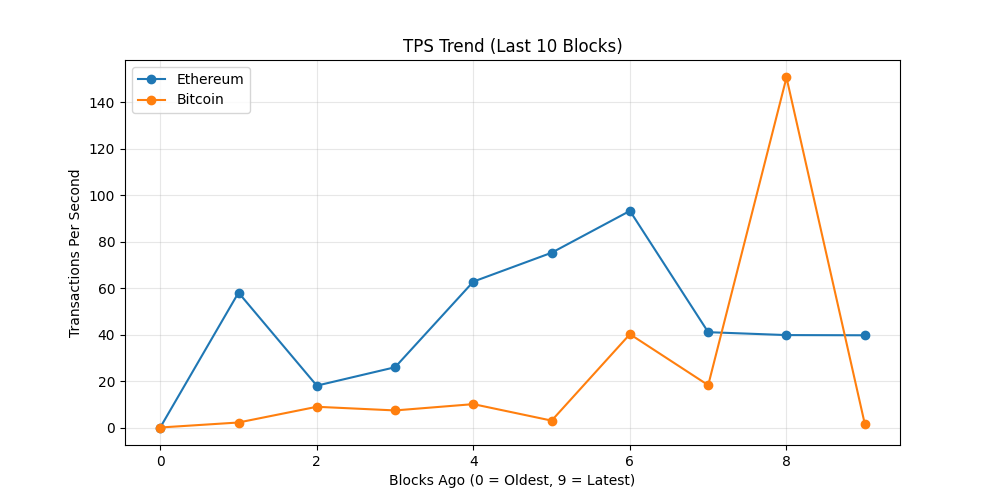
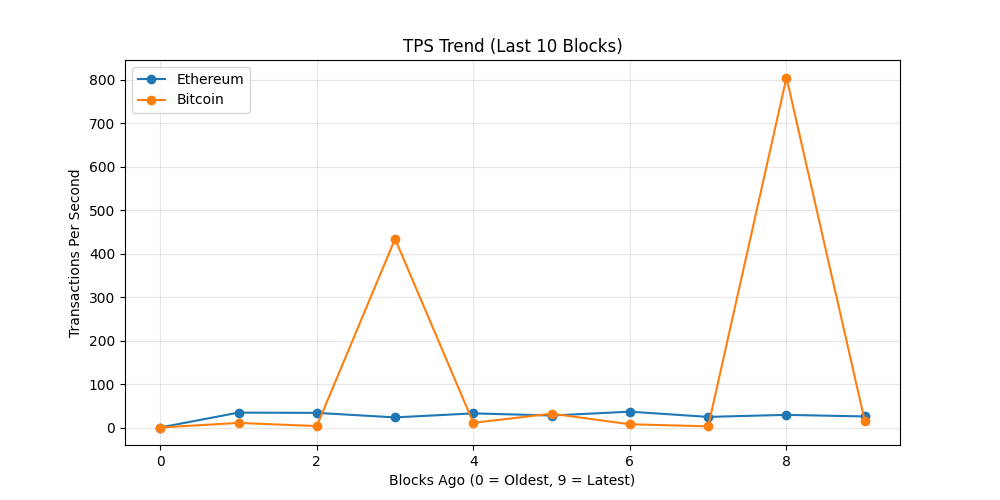
chore: update on-chain dashboard

diff --git a/README.md b/README.md
@@ -19,7 +19,7 @@ The README itself acts as the dashboard and is regenerated automatically on a 6 
 demonstrating a production-style, infrastructure-focused observability workflow rather
 than a traditional UI-driven approach.
 
-_Last updated: 2026-03-31 03:29 UTC_
+_Last updated: 2026-03-31 07:44 UTC_
 
 ## API Usage (GetBlock.io)
 - Calls used: **24**
@@ -27,8 +27,8 @@ _Last updated: 2026-03-31 03:29 UTC_
 ## Network Metrics
 | Chain | Block Height | TX Count | TPS (10 blk avg) | Block Util | Avg Fee |
 |------|-------------|----------|------------------|------------|---------|
-| Ethereum | 24774900 | 476 | 39.67 | 53.81% | 0.1 Gwei |
-| Bitcoin | 943007 | 2823 | 1.57 | 99.79% | N/A |
+| Ethereum | 24776171 | 305 | 25.42 | 50.7% | 0.1 Gwei |
+| Bitcoin | 943030 | 5042 | 15.33 | 99.8% | N/A |
 
 ## Visuals
 ### Transactions Trend
@@ -43,11 +43,9 @@ _Last updated: 2026-03-31 03:29 UTC_
 ## Whale Alerts (latest block)
 - Transaction hashes are truncated for readability.
 - Full hashes are available in `dashboards/metrics.json`
-- Bitcoin | 201.44 BTC | `d1761b02b211…`
-- Bitcoin | 141.47 BTC | `0d7c3afb58ba…`
-- Bitcoin | 187.76 BTC | `f3e58f745d9a…`
-- Bitcoin | 211.43 BTC | `16eecd0be973…`
-- Bitcoin | 307.19 BTC | `a9221b9cbd96…`
+- Bitcoin | 302.67 BTC | `b2f9c3333769…`
+- Bitcoin | 159.34 BTC | `ff451ede0c3c…`
+- Bitcoin | 4070.6 BTC | `eb76de39a92f…`
 
 ## Run locally
 
